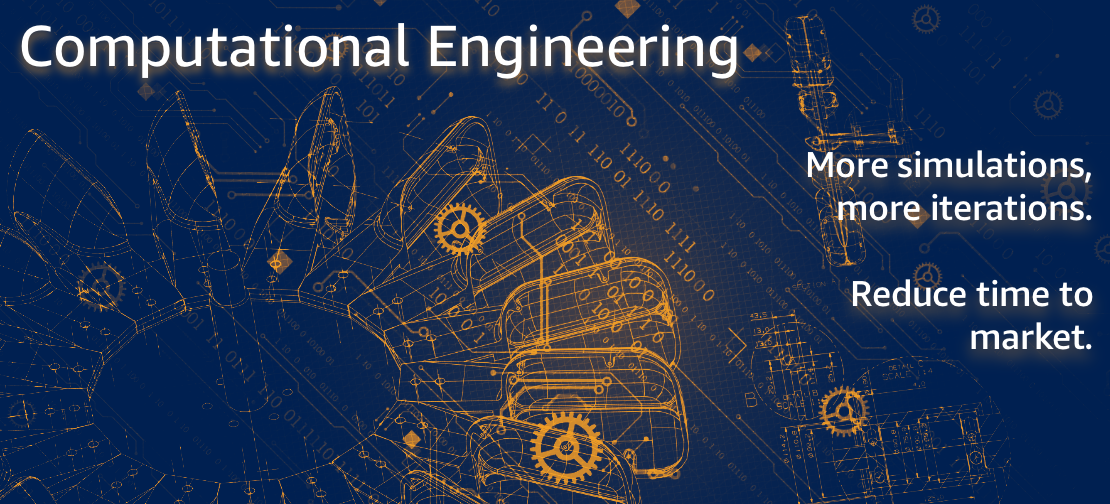
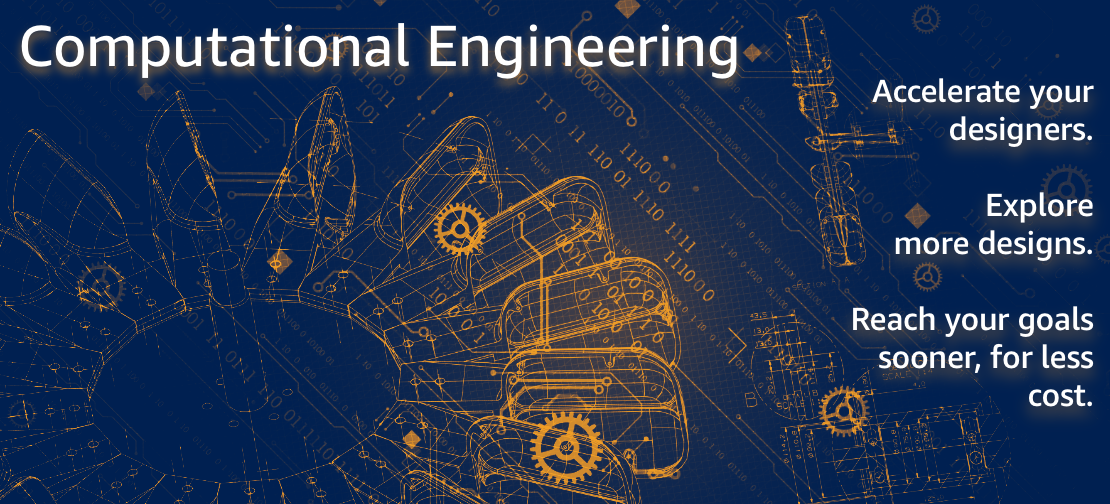
Updated

Changed region(s): [[0.7045, 0.1488, 1.0, 0.5357], [0.7658, 0.5357, 1.0, 0.8333]]

diff --git a/content/english/cae-cfd.md b/content/english/cae-cfd.md
@@ -14,14 +14,54 @@ tags: ["cae/cfd"]
 type: "regular" # available type (regular or featured)
 draft: false
 ---
-
 <style>
-.boof {
-  float:right !important;
-  width:350px;
+.boof-weather {
+  float:center !important;
+  width:1110px;
   padding: 10px;
   }
 </style>
 
-# Learn about CAE/CFD on AWS HPC
+{{< image src="/images/hpc/cfd-ident-large.png" position="center" class="boof-weather" >}}
 
+## Running engineering workloads on AWS lets iterate through your design space *fast*
+
+That's because Amazon EC2 isn't just fast - it's super-versatile. More than 500 compute instance types means you can match each elements of your pipeline to exactly the right compute. When you're able to tune every element like this, everything gets faster and you save money not having hardware idle waiting for another part of the pipeline.
+
+Some key pieces of technology make this possible.
+
+- **Amazon EC2** provides the raw compute resources, like CPUs, GPUs and memory.
+- **FSx for Lustre** and **FSx for OpenZFS** high-speed parallel filesystems that safely store all your data in whatever form you need it.
+- **Elastic Fabric Adapter** connects every piece with an network designed for scientific, engineering, and machine learning workloads.
+
+Finally, **AWS ParallelCluster brings all of this together** into clusters you can easily create, scale, duplicate and retire - all inside your security perimeter.
+
+<style>
+.boof-blog {
+  float:right !important;
+  width:200;
+  padding: 10px;
+  }
+</style>
+
+{{< image src="/images/hpc/ws-strap-mini.png" class="boof-blog" >}}
+
+- [Getting the best OpenFOAM Performance on AWS](https://aws.amazon.com/blogs/hpc/getting-the-best-openfoam-performance-on-aws/)
+- [Running large-scale CFD fire simulations on AWS for Amazon.com](https://aws.amazon.com/blogs/hpc/amazon-runs-large-scale-cfd-fire-simulations-on-aws/)
+- [Simcenter STAR-CCM+ price-performance on AWS](https://aws.amazon.com/blogs/hpc/simcenter-star-ccm-price-performance-on-aws/)
+
+- [EFA is now mainstream, and that’s a Good Thing | AWS HPC Blog](https://aws.amazon.com/blogs/hpc/efa-is-now-mainstream/)
+- [New: Introducing AWS ParallelCluster 3 | AWS HPC Blog](https://aws.amazon.com/blogs/hpc/introducing-aws-parallelcluster-3/)
+
+- [Running finite element analysis using Simcenter Nastran on AWS | AWS HPC Blog](https://aws.amazon.com/blogs/hpc/running-finite-element-analysis-using-simcenter-nastran-on-aws/)
+- [Cost-optimization on Spot Instances using checkpoint for Ansys LS-DYNA | AWS HPC Blog](https://aws.amazon.com/blogs/hpc/cost-optimization-on-spot-instances-using-checkpoints-for-ansys-ls-dyna/)
+- [Accelerate Computer-Aided Engineering Workloads with Hybrid Cloud HPC Scenarios](https://aws.amazon.com/blogs/apn/accelerate-computer-aided-engineering-workloads-with-hybrid-cloud-hpc-scenarios/)
+- [The America's Cup And INEOS TEAM UK - BBC Click](https://www.youtube.com/watch?v=yLc5qsJVu5U)
+
+- [CFD on AWS graviton2 CPUs - early results](https://youtu.be/4WgE472wIqU)
+- **CFD performance on Ice Lake CPU with the Amazon EC2 C6i** - [Part 1](https://youtu.be/9w9-KhZLOnU) || [Part 2](https://youtu.be/F8YzcuYr7YI)
+
+# Getting hands on, with help
+
+The HPC team 
+**[Running Hexagon CAE applications](https://catalog.workshops.aws/cae-hexagon)**	The purpose of this workshop is to help you to run your Hexagon (MSC) applications on AWS. We’ll go from creating the HPC cluster using AWS ParallelCluster, to the installation of the codes such as Cradle CFD, MSC Nastran, Marc, Actran, Simufact etc. and finally example submission scripts for you to run your own cases.	

diff --git a/content/english/climate-environment-weather.md b/content/english/climate-environment-weather.md
@@ -49,6 +49,8 @@ The Hpc6a is built on AMD's Milan, and the [AWS Graviton](https://aws.amazon.com
 
 - [Running the Harmonie weather model  on AWS](https://aws.amazon.com/blogs/hpc/running-the-harmonie-numerical-weather-prediction-on-aws/) - We worked together with the  Danish Meteorological Institute (DMI) to port and run a full numerical weather prediction (NWP) cycling dataflow with the Harmonie Numerical Weather Prediction (NWP) model to AWS.
 
+- [Training forecasters to warn severe hazardous weather on AWS](https://aws.amazon.com/blogs/hpc/training-forecasters-to-warn-severe-hazardous-weather-on-aws/)
+
 ## The role of AWS Graviton in Weather
 
 <style>
@@ -62,9 +64,24 @@ The Hpc6a is built on AMD's Milan, and the [AWS Graviton](https://aws.amazon.com
 {{< image src="/images/post/ts-title-wrf-on-graviton2.png" class="boof-video" >}}
 
 - [Arm a world-leading forecast model with AWS Graviton and Lambda](https://aws.amazon.com/blogs/hpc/how-to-arm-a-world-leading-forecast-model-with-aws-graviton-and-lambda/) - the UK MetOffice is a a well-recognized scientific leader in weather, climate and environmental forecasts and severe weather warnings for the protection of life and property. They describe their experience of gathering their SurfaceNet data gathering of over 1 billion observations a year using AWS Lamba and their switch to using AWS Graviton.
-- Numerical weather prediction on AWS Graviton2 - **[[Blog]](https://aws.amazon.com/blogs/hpc/numerical-weather-prediction-on-aws-graviton2/) [[Video]](https://youtu.be/D2ppdRKSz5I)** - an exploration of how WRF performs on AWS Graviton2, delivering suprising performance results.
+- Numerical weather prediction on AWS Graviton2 - **[[Blog]](https://aws.amazon.com/blogs/hpc/numerical-weather-prediction-on-aws-graviton2/) [[Video]](https://youtu.be/D2ppdRKSz5I)** - an exploration of how **WRF** performs on AWS Graviton2, delivering suprising performance results.
 
-## Cloud as a training tool
+## Getting hands on (with help) in a workshop
 
-- [Training forecasters to warn severe hazardous weather on AWS](https://aws.amazon.com/blogs/hpc/training-forecasters-to-warn-severe-hazardous-weather-on-aws/)
+<style>
+.boof-ws {
+  float:right !important;
+  width:300px;
+  padding: 10px;
+  }
+</style>
+
+{{< image src="/images/hpc/ws-ident-square.png" class="boof-ws" >}}
+
+HPC on AWS removes the long wait times and lost productivity often associated with traditional, on-premises, HPC clusters.
+
+Flexible configuration and virtually unlimited scalability allow you to grow and shrink your infrastructure as your workloads dictate, not the other way around. Additionally, with access to a broad portfolio of cloud-based services like Data Analytics, Artificial Intelligence (AI), and Machine Learning (ML), you can redefine traditional HPC workflows to innovate faster.
+
+**[These workshops](https://weather.hpcworkshops.com/)** lead you through getting started and on into installation and use of WRF, MPAS, and Unified Forecase System FV3GFS. **[[Get started now]](https://weather.hpcworkshops.com/)**
+
 

diff --git a/content/english/parallelcluster.md b/content/english/parallelcluster.md
@@ -43,7 +43,7 @@ ParallelCluster has a graphical interface (and a CLI) to model and control all t
 
 There are two ways to get ParallelCluster::
 
-1. **We suggest using [PCluster Manager](https://pcluster.cloud/01-getting-started.html)**, which is a visual interface for designing and deploying your clusters. **PCluster Manager** has great features that help you integrate fast filesytems (like Lustre), get one-click desktops connections using NICE DCV, and **controlling your spend** using Slurm Accounting. PCluster Manager can be deployed to your AWS account very quickly, by following the tutorial [here](https://pcluster.cloud/01-getting-started.html).
+1. **We suggest using [PCluster Manager](https://pcluster.cloud/01-getting-started.html)**, which is a visual interface for designing and deploying your clusters. It has features that help you integrate fast filesytems (like Lustre), visual desktops, and tools to **control your spend** using Slurm Accounting. **PCluster Manager** can be deployed to your AWS account very quickly, by following the tutorial [here](https://pcluster.cloud/01-getting-started.html).
 
 2. If you're familiar with AWS already, and just want the CLI, you can install it on almost any computer with python installed. The procedure is [documented here](https://docs.aws.amazon.com/parallelcluster/latest/ug/install-v3-parallelcluster.html), but pretty much starts with:
 

diff --git a/content/english/life-sciences.md b/content/english/life-sciences.md
@@ -16,12 +16,14 @@ draft: false
 ---
 
 <style>
-.boof {
-  float:right !important;
-  width:350px;
+.boof-weather 
+  float:center !important;
+  width:1110px;
   padding: 10px;
   }
 </style>
 
-# Learn about Life Sciences on AWS HPC
+{{< image src="/images/hpc/life-ident-large.png" position="center" class="boof-weather" >}}
+
+## Learn about Healthcare and LIfe Sciences HPC on AWS
 
